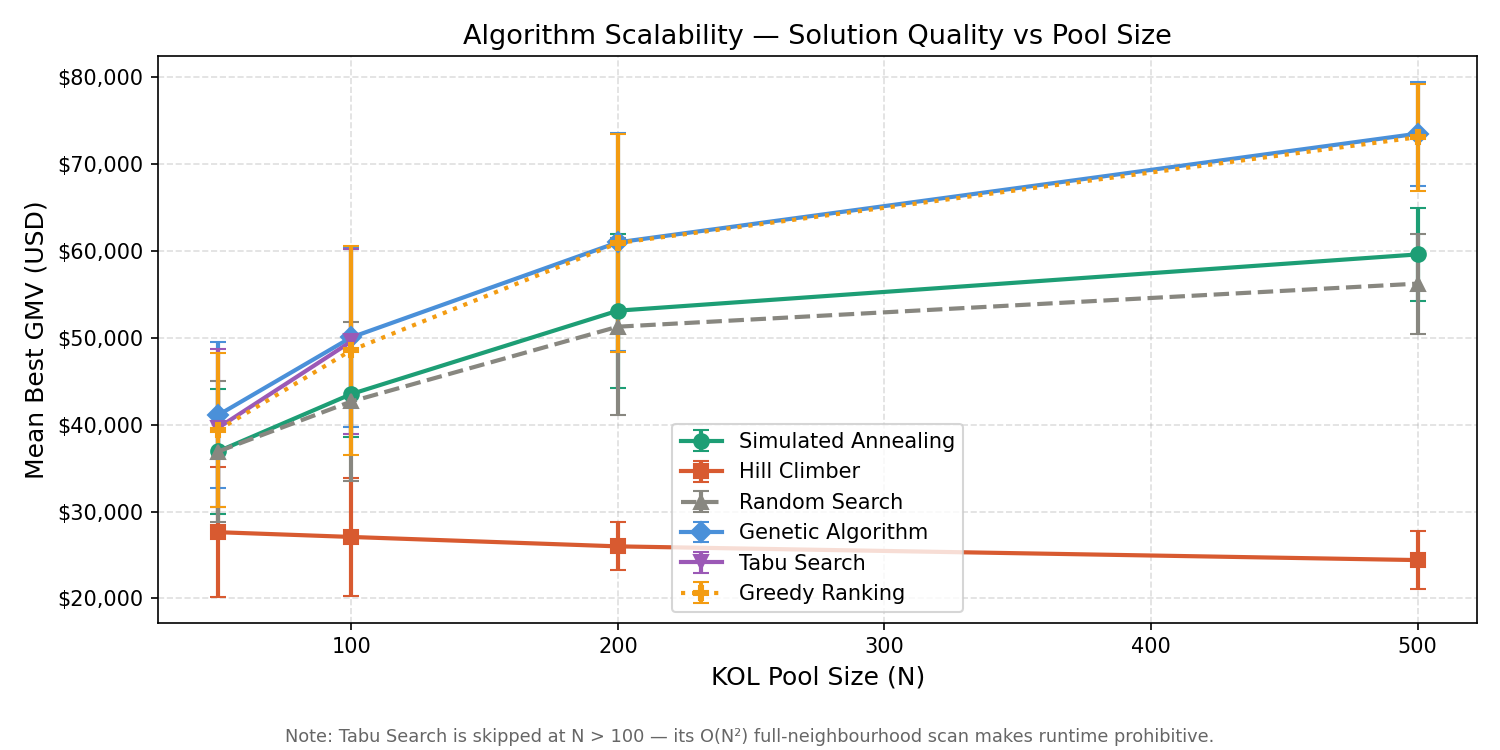
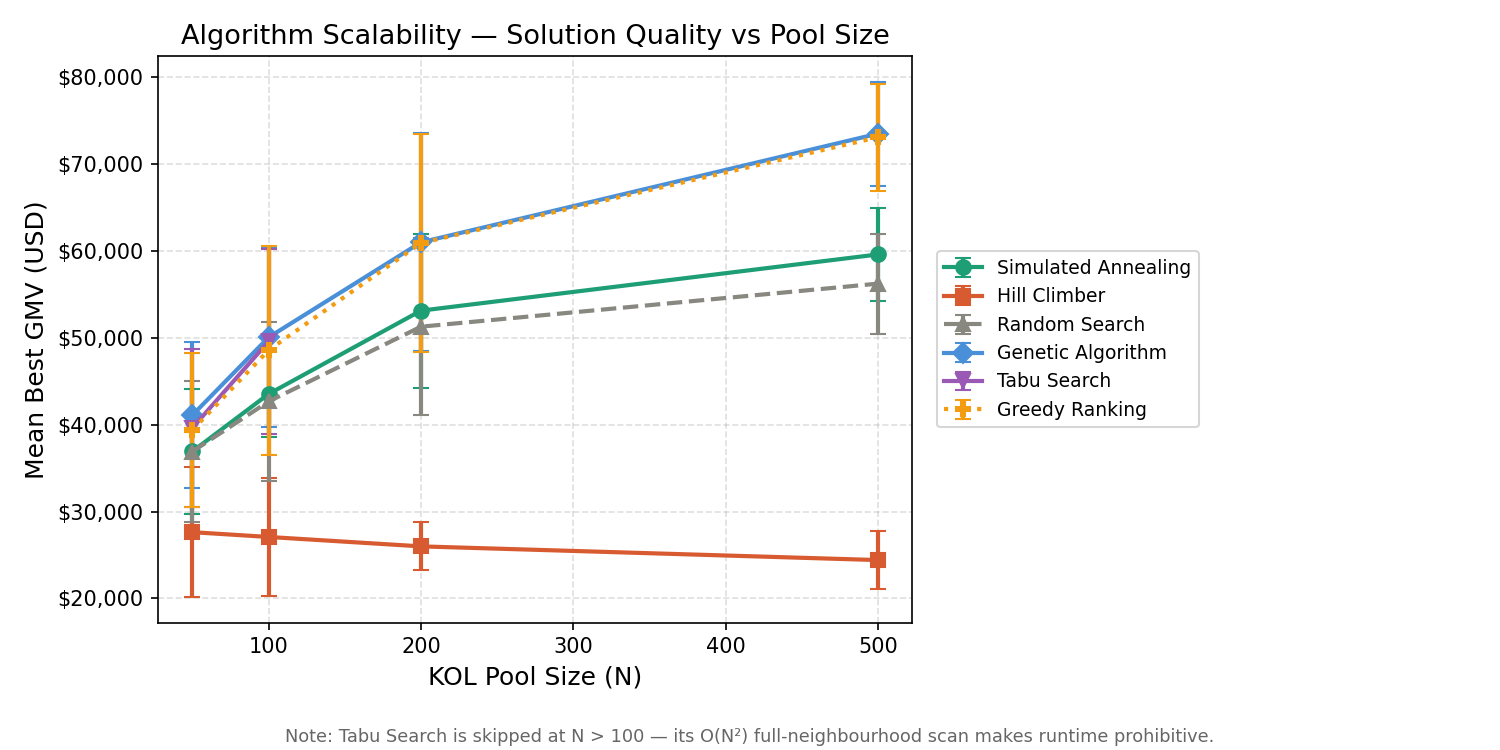
Improve report accuracy and chart clarity

diff --git a/backend/main.py b/backend/main.py
@@ -704,8 +704,9 @@ def optimize_plans(req: OptimizeRequest, _t: str = Depends(require_tenant)):
                   "Best trade-off between scale and efficiency."
 
     Safe        — 80% budget, winner = Greedy Ranking.
-                  Greedy picks by GMV/cost ratio, guaranteeing the best
-                  cost-effectiveness in the pool.
+                  Greedy Ranking keeps the stronger of GMV-descending and
+                  GMV/cost-ratio fills, then applies local improvements under
+                  a smaller budget cap.
                   "Protect budget, maximise ROI."
     """
     if req.budget <= 0:
@@ -754,10 +755,10 @@ def optimize_plans(req: OptimizeRequest, _t: str = Depends(require_tenant)):
     bal_overlap = detect_audience_overlap(bal_result.selected_kols, filtered)
 
     # ── Safe: 80% budget → always use Greedy Ranking ───────────────────────
-    #    Greedy sorts by GMV/cost and greedily fills the budget, giving the
-    #    provably best cost-effectiveness ratio in the pool.
+    #    Greedy Ranking is deterministic and strong under a smaller budget cap,
+    #    making the plan conservative without relying on the weak baselines.
     safe_budget = req.budget * 0.8
-    safe_result = run_greedy_only(filtered, safe_budget, req.seed + 2, scores)   # always best ROI
+    safe_result = run_greedy_only(filtered, safe_budget, req.seed + 2, scores)
     safe_tier = compute_tier_breakdown(safe_result.selected_kols)
     safe_overlap = detect_audience_overlap(safe_result.selected_kols, filtered)
 
@@ -791,7 +792,7 @@ def optimize_plans(req: OptimizeRequest, _t: str = Depends(require_tenant)):
             ),
             PlanResult(
                 plan_name="Safe",
-                description="80% budget cap, Greedy selection — highest cost-effectiveness guaranteed.",
+                description="80% budget cap with deterministic Greedy Ranking for a conservative, efficient portfolio.",
                 budget_limit=safe_budget,
                 selected_kols=safe_result.selected_kols,
                 total_cost=safe_result.total_cost,

diff --git a/tests/test_api.py b/tests/test_api.py
@@ -112,8 +112,8 @@ def test_optimize_history_arrays_nonempty():
 def test_optimize_best_algorithm_has_highest_objective():
     """The best_algorithm field must correspond to the algorithm with the highest
     objective (GMV net of the audience-overlap penalty) — the value the solvers
-    actually optimise. Ranking by raw GMV instead would let the Random Search
-    baseline win by ignoring overlap."""
+    actually optimise, excluding the Random Search baseline. Ranking by raw GMV
+    instead would let a baseline win by ignoring overlap."""
     response = client.post("/optimize", json={
         "budget": 5000, "countries": ["MY"], "category": "beauty", "seed": 42,
     })
@@ -122,7 +122,8 @@ def test_optimize_best_algorithm_has_highest_objective():
 
     if data["candidates"] > 0:
         objectives = {algo["algorithm"]: algo["objective"]
-                      for algo in data["results"].values()}
+                      for key, algo in data["results"].items()
+                      if key != "random_search"}
         max_obj = max(objectives.values())
         assert objectives[best_name] == max_obj
 

diff --git a/backend/calibration.py b/backend/calibration.py
@@ -3,10 +3,11 @@ Prediction calibration — closes the loop from actual campaign GMV back into
 future GMV predictions.
 
 When a campaign is completed with its real GMV, we fold the actual/predicted
-ratio (EWMA + shrinkage) into a per-tenant calibration table: one global factor
-plus per-(category, country) segment factors. When presenting a predicted GMV we
-multiply by the matching factor, so a model that systematically over- or
-under-predicts a segment self-corrects over time.
+ratio (EWMA + shrinkage) into a per-tenant calibration table: one global factor,
+per-(category, country) segment factors, and optional per-creator factors from
+creator-level actuals. When presenting a predicted GMV we multiply by the most
+specific matching factor, so a model that systematically over- or under-predicts
+a tenant, segment, or creator self-corrects over time.
 
 Stored at data/tenants/{id}/calibration.json. A brand-new tenant has no history,
 so every factor defaults to 1.0 (predictions unchanged — zero behaviour change

diff --git a/experiments/scalability.py b/experiments/scalability.py
@@ -144,12 +144,12 @@ def make_plots(summary):
         ax.set_xlabel("KOL Pool Size (N)", fontsize=12)
         ax.set_ylabel(ylabel, fontsize=12)
         ax.set_title(title, fontsize=13)
-        ax.legend(fontsize=10)
+        ax.legend(fontsize=9, loc="center left", bbox_to_anchor=(1.02, 0.5))
         ax.grid(True, linestyle="--", alpha=0.4)
         if yfmt is not None:
             ax.yaxis.set_major_formatter(yfmt)
         fig.text(0.5, 0.01, _TS_NOTE, ha="center", fontsize=8.5, color="#666666")
-        fig.tight_layout(rect=[0, 0.045, 1, 1])
+        fig.tight_layout(rect=[0, 0.045, 0.82, 1])
         for path in paths:
             fig.savefig(path, dpi=150)
         plt.close(fig)

diff --git a/engine/optimization/genetic_algorithm.py b/engine/optimization/genetic_algorithm.py
@@ -4,8 +4,8 @@ Genetic Algorithm for KOL portfolio optimization.
 
 Key design decisions:
   - Chromosome: binary list (1=selected, 0=not), length = pool size
-  - Greedy seeding: first individual is a near-optimal greedy solution
-    (sort by GMV/cost, fill greedily up to budget)
+  - Greedy seeding: first individual is the stronger of two greedy fills
+    (GMV-descending and GMV/cost-ratio-descending)
   - Selection: tournament (k=3) — fast, tunable selection pressure
   - Crossover: single-point (prob=0.9) — preserves portfolio structure
   - Mutation: uniform bit-flip with prob=1/n per gene

diff --git a/engine/optimization/tabu_search.py b/engine/optimization/tabu_search.py
@@ -3,7 +3,7 @@
 Tabu Search for KOL portfolio optimization.
 
 Algorithm:
-  1. Greedy initialisation (sort by GMV/cost, fill to budget)
+  1. Multi-strategy greedy initialisation (best of GMV-desc and GMV/cost-ratio fills)
   2. At each iteration: evaluate ALL n single-flip neighbours
   3. Choose best non-tabu neighbour (or any if aspiration criterion met)
   4. Add the flipped index to tabu list for `tabu_tenure` steps

diff --git a/docs/report_draft.md b/docs/report_draft.md
@@ -132,7 +132,7 @@ This lands within the plausible range for a single mid-tier beauty creator's mon
 
 ### 2.3 Algorithms
 
-**Simulated Annealing (SA)** — Thermal-adaptive hybrid neighbourhood (single bit-flip, structural swap, and occasional multi-swap jumps). Acceptance probability P = exp(-δ/T). Parameters: T0=15,000; T_min=10; α=0.95; 150 iterations per temperature step (≈143 temperature levels, ≈21K evaluations). SA is the primary solver.
+**Simulated Annealing (SA)** — Thermal-adaptive hybrid neighbourhood (single bit-flip, structural swap, and occasional multi-swap jumps). Acceptance probability P = exp(-δ/T). Parameters: T0=15,000; T_min=10; α=0.95; 150 iterations per temperature step (≈143 temperature levels, ≈21K evaluations). SA is the main trajectory metaheuristic in the suite.
 
 **Hill Climber (HC)** — Greedy local search. At each iteration it flips one *randomly chosen* bit and accepts the move only if it strictly lowers cost (raises GMV), for a fixed 5,000 iterations. Fast (O(1) evaluation per iteration) but gets trapped in local optima when expensive KOLs fill the budget and no single flip improves the portfolio.
 
@@ -237,7 +237,7 @@ The system is a four-layer monolith:
 
 1. **Client** — a single-page app (`frontend/index.html`, vanilla JS + Tailwind) with a login gate plus the Landing, Optimizer, Creators, Campaigns, and Creator Pool Simulator views.
 2. **API** — FastAPI (`main.py` optimization + simulator, `crud.py` creator management, `campaigns.py` attribution) that both serves the SPA as static files and exposes the typed REST surface. `auth.py` (JWT register/login) + `tenancy.py` make it **multi-tenant**: a `require_tenant` dependency on every data endpoint resolves the caller's tenant and scopes all reads/writes to it. Integration connectors (TikTok Creator Marketplace, TikTok Shop, third-party analytics) are roadmap stubs.
-3. **Optimization engine** — pure Python with no web/DB dependencies: `engine/optimization/` (the six solvers), `engine/scoring/` (CreatorScore, Explainer, ROI), `engine/fitness.py` (the objective), and `engine/models.py` (KOL, tiers, the SEA GMV model, candidate shortlisting).
+3. **Optimization engine** — pure Python with no web/DB dependencies: `engine/optimization/` (the six solvers), `engine/scoring/` (CreatorScore, Explainer, ROI), `engine/fitness.py` (the objective), `engine/models.py` (KOL, tiers, the SEA GMV model), and `backend/main.py` (CreatorScore-based candidate shortlisting before live optimization).
 4. **Data** — per-tenant JSON persistence under `data/tenants/{id}/` (`sample_kols.json`, `kol_history.json`, `campaigns.json`, `calibration.json`), provisioned from the curated seed on signup. The shipped seed is built offline by `build_seed.py` (from real FastMoss CSV/Excel) and `fill_slices.py` (synthetic slice fill), with `generator.py` producing the synthetic pools used by the simulator and benchmarks.
 
 Key architectural choices: the engine takes no web/database dependencies, so it is unit-testable in isolation and reusable from both the API and the `experiments/` harness; candidate shortlisting (top-K by CreatorScore before optimization) decouples `/optimize` latency from library size; the GMV prediction self-calibrates from realised outcomes (`calibration.py`, §3.9) at the display layer without changing the solver's ranking; and all persistence is plain JSON behind a small per-tenant data-access seam, which also lets the test suite run against an isolated throwaway tenant without touching production data.
@@ -353,7 +353,7 @@ The ranking above is not absolute — it is produced by an interaction of proble
 
 See `docs/figures/convergence_panels.png` (three-panel N=20/50/100, proportional budget) and `docs/figures/convergence.png` (the 8-KOL "trap" demo from `run_comparison.py`, budget=$5,000).
 
-(Exact per-panel values are read off the figure; the robust qualitative behaviour is described here.)
+(Exact per-panel values are read off the figure; the robust qualitative behaviour is described here. Each curve uses that algorithm's native history trace, so the panels should be read as qualitative convergence shapes rather than a strict equal-evaluation comparison; Greedy Ranking's trace is a deterministic construction/polish display path.)
 
 **At N=20:** Every algorithm *except* Hill Climber converges to the same optimum within a few hundred iterations — the pool is small enough that GA, TS, SA, GR and even Random Search all find it. HC alone is trapped well below, unable to improve its greedy portfolio with a single bit-flip.
 
@@ -361,7 +361,7 @@ See `docs/figures/convergence_panels.png` (three-panel N=20/50/100, proportional
 
 **At N=100:** GA, TS and GR jump to a strong value almost immediately thanks to greedy seeding / ratio-sorting. SA starts from a cold (empty) portfolio and climbs *steadily*, then makes a late jump that — at this tighter **proportional** budget ($2,500) — carries it to the top of the panel. This is the mirror image of the fixed-$5,000 N=100 setting in §3.2, where the larger feasible set leaves SA's fixed evaluation budget spread thin and it lands mid-tier: SA's relative standing depends heavily on how generous the budget is. Random Search trails the seeded methods, and HC stays flat near the bottom.
 
-**8-KOL trap demo (`convergence.png`):** On the hand-built scenario where one expensive Macro creator tempts a greedy solver, **five of the six methods — SA, GA, TS, Greedy Ranking, and even Random Search on this tiny pool — converge to the same optimum within a handful of iterations**, while **Hill Climber alone stays trapped a notch below** and never escapes (the lower flat line). Their realised portfolios reach **$37.3K GMV versus HC's $36.4K** (`comparison_summary.csv`); the plotted curve is the search *objective* (GMV net of the audience-overlap penalty), which is why the shared plateau reads ≈$33.9K rather than the raw figure. This confirms the trap on a minimal, human-readable instance — only the naïve hill-climb fails to reach the optimum. (The instance is fixed in code, independent of the synthetic generator.)
+**8-KOL trap demo (`convergence.png`):** On the hand-built scenario where one expensive Macro creator tempts a greedy solver, **five of the six methods — SA, GA, TS, Greedy Ranking, and even Random Search on this tiny pool — converge to the same optimum within a handful of iterations**, while **Hill Climber alone stays trapped a notch below** and never escapes (the lower flat line). Their realised portfolios reach **$37.3K GMV versus HC's $36.4K** when `experiments/run_comparison.py` is run; the script writes the supporting `experiments/plots/comparison_summary.csv` artefact locally. The plotted curve is the search *objective* (GMV net of the audience-overlap penalty), which is why the shared plateau reads ≈$33.9K rather than the raw figure. This confirms the trap on a minimal, human-readable instance — only the naïve hill-climb fails to reach the optimum. (The instance is fixed in code, independent of the synthetic generator.)
 
 ---
 

diff --git a/README.md b/README.md
@@ -8,7 +8,7 @@
 ![Tests](https://img.shields.io/badge/tests-128%20passing-brightgreen)
 ![License](https://img.shields.io/badge/license-MIT-green)
 
-For Southeast-Asia TikTok Shop merchants and agencies who must allocate a marketing budget across hundreds of creators — and **prove the ROI afterwards**. The system filters the creator pool by market and category, runs **six optimization algorithms in parallel** to maximize predicted GMV, explains *why* each creator was chosen, and feeds predicted-vs-actual GMV back into the model so every campaign **automatically** sharpens the next. Each merchant works in their own isolated, login-gated tenant.
+For Southeast-Asia TikTok Shop merchants and agencies who must allocate a marketing budget across hundreds of creators — and **prove the ROI afterwards**. The system filters the creator pool by market and category, compares **six optimization algorithms** to maximize predicted GMV, explains *why* each creator was chosen, and feeds predicted-vs-actual GMV back into the model so every campaign **automatically** sharpens the next. Each merchant works in their own isolated, login-gated tenant.
 
 > **▶ Live demo:** `start_server.bat` (Windows) or `uvicorn backend.main:app --reload`, then open **http://localhost:8000/ui**
 
@@ -90,7 +90,7 @@ The platform is organised into three product modules backed by two intelligence 
 
 ### 🎯 Campaign Optimizer
 
-The core engine. Choose a **budget**, one or more **target markets**, and a **product category**; the backend filters the creator pool and runs all six algorithms in parallel, then surfaces the highest-GMV portfolio.
+The core engine. Choose a **budget**, one or more **target markets**, and a **product category**; the backend filters the creator pool, runs all six algorithms, and surfaces the highest-GMV portfolio.
 
 - **Inputs** — budget ($100–$20,000), any of six SEA markets (MY · ID · TH · PH · SG · VN), a product category (Beauty · Fashion · Home & Living · FMCG), and an optional random seed for reproducible runs.
 - **Results** — five headline metrics (winning algorithm, predicted GMV, budget utilization, creators selected, candidate-pool size); an SVG **convergence chart** tracing all six algorithms; a side-by-side **benchmark table** (GMV + ROI, winner highlighted); and the **KOL matrix** — one card per selected creator showing tier, reach, cost, engagement, fit, estimated GMV, and a **"Why?"** explainer.
